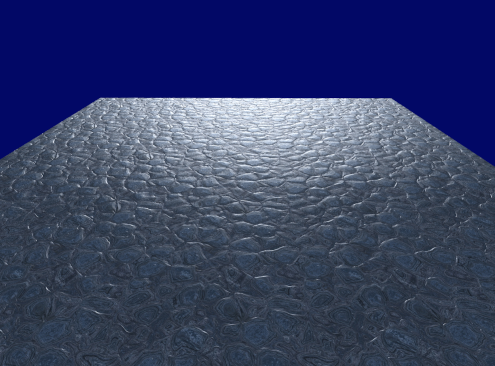
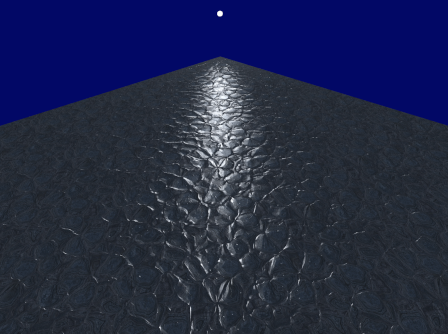
fix
Note that normal maps are defined in tangent space.
Don't forget to transform them to world space before using.

diff --git a/src/main.cpp b/src/main.cpp
@@ -4,12 +4,12 @@ GLFWwindow *window;
 
 Mesh *grid, *grid2;
 
-vec3 lightPosition = vec3(3.f, 3.f, 3.f);
+vec3 lightPosition = vec3(10.f, 3.f, 10.f);
 vec3 lightColor = vec3(1.f, 1.f, 1.f);
 
 /* for view control */
-float verticalAngle = -2.76603;
-float horizontalAngle = 1.56834;
+float verticalAngle = -1.95439;
+float horizontalAngle = 3.98102;
 float initialFoV = 45.0f;
 float speed = 5.0f;
 float mouseSpeed = 0.005f;
@@ -17,11 +17,16 @@ float nearPlane = 0.01f, farPlane = 1000.f;
 
 mat4 model, view, projection;
 mat4 model2;
-vec3 eyePoint = vec3(2.440995, 7.005076, 3.059731);
+vec3 eyePoint = vec3(-7.735105, 6.012015, -8.435227);
 vec3 eyeDirection =
     vec3(sin(verticalAngle) * cos(horizontalAngle), cos(verticalAngle),
          sin(verticalAngle) * sin(horizontalAngle));
 vec3 up = vec3(0.f, 1.f, 0.f);
+
+// test
+vector<Point> pts;
+GLuint pointShader;
+GLint uniPointM, uniPointV, uniPointP;
 
 void computeMatricesFromInputs();
 void keyCallback(GLFWwindow *, int, int, int, int);
@@ -42,6 +47,11 @@ int main(int argc, char **argv) {
 
   initTexture();
   initMatrix();
+
+  Point p;
+  p.pos = lightPosition;
+  p.color = vec3(1.f);
+  pts.push_back(p);
 
   // a rough way to solve cursor position initialization problem
   // must call glfwPollEvents once to activate glfwSetCursorPos
@@ -74,6 +84,12 @@ int main(int argc, char **argv) {
                     lightPosition, 10, 11);
       }
     }
+
+    glUseProgram(pointShader);
+    glUniformMatrix4fv(uniPointM, 1, GL_FALSE, value_ptr(model));
+    glUniformMatrix4fv(uniPointV, 1, GL_FALSE, value_ptr(view));
+    glUniformMatrix4fv(uniPointP, 1, GL_FALSE, value_ptr(projection));
+    drawPoints(pts);
 
     /* Swap front and back buffers */
     glfwSwapBuffers(window);
@@ -219,9 +235,20 @@ void initGL() { // Initialise GLFW
 
   glEnable(GL_CULL_FACE);
   glEnable(GL_DEPTH_TEST); // must enable depth test!!
+
+  glEnable(GL_PROGRAM_POINT_SIZE);
+  glPointSize(20);
 }
 
-void initOthers() { FreeImage_Initialise(true); }
+void initOthers() {
+  FreeImage_Initialise(true);
+
+  pointShader = buildShader("./shader/vsPoint.glsl", "./shader/fsPoint.glsl");
+  glUseProgram(pointShader);
+  uniPointM = myGetUniformLocation(pointShader, "M");
+  uniPointV = myGetUniformLocation(pointShader, "V");
+  uniPointP = myGetUniformLocation(pointShader, "P");
+}
 
 void initMatrix() {
   model = translate(mat4(1.f), vec3(0.f, 0.f, 0.f));

diff --git a/src/common.cpp b/src/common.cpp
@@ -595,3 +595,56 @@ void Mesh::findAABB() {
   min = min;
   max = max;
 }
+
+void drawPoints(vector<Point> &pts) { // array data
+  int nOfPs = pts.size();
+
+  GLfloat *aPos = new GLfloat[nOfPs * 3];
+  GLfloat *aColor = new GLfloat[nOfPs * 3];
+
+  // implant data
+  for (size_t i = 0; i < nOfPs; i++) {
+    // positions
+    Point &p = pts[i];
+    aPos[i * 3 + 0] = p.pos.x;
+    aPos[i * 3 + 1] = p.pos.y;
+    aPos[i * 3 + 2] = p.pos.z;
+
+    // colors
+    aColor[i * 3 + 0] = p.color.r;
+    aColor[i * 3 + 1] = p.color.g;
+    aColor[i * 3 + 2] = p.color.b;
+  }
+
+  // selete vao
+  GLuint vao;
+  glGenVertexArrays(1, &vao);
+  glBindVertexArray(vao);
+
+  // position
+  GLuint vboPos;
+  glGenBuffers(1, &vboPos);
+  glBindBuffer(GL_ARRAY_BUFFER, vboPos);
+  glBufferData(GL_ARRAY_BUFFER, nOfPs * 3 * sizeof(GLfloat), aPos,
+               GL_STATIC_DRAW);
+  glVertexAttribPointer(0, 3, GL_FLOAT, GL_FALSE, 0, 0);
+  glEnableVertexAttribArray(0);
+
+  // color
+  GLuint vboColor;
+  glGenBuffers(1, &vboColor);
+  glBindBuffer(GL_ARRAY_BUFFER, vboColor);
+  glBufferData(GL_ARRAY_BUFFER, nOfPs * 3 * sizeof(GLfloat), aColor,
+               GL_STREAM_DRAW);
+  glVertexAttribPointer(1, 3, GL_FLOAT, GL_FALSE, 0, 0);
+  glEnableVertexAttribArray(1);
+
+  glDrawArrays(GL_POINTS, 0, nOfPs);
+
+  // release
+  delete[] aPos;
+  delete[] aColor;
+  glDeleteBuffers(1, &vboPos);
+  glDeleteBuffers(1, &vboColor);
+  glDeleteVertexArrays(1, &vao);
+}

diff --git a/header/common.h b/header/common.h
@@ -19,6 +19,14 @@ using namespace glm;
 #define WINDOW_WIDTH 800
 #define WINDOW_HEIGHT 600
 
+/* Define a 3D point */
+typedef struct {
+  vec3 pos;
+  vec3 color;
+  vec3 v;
+  float m;
+} Point;
+
 typedef struct {
   // data index
   GLuint v1, v2, v3;
@@ -74,3 +82,4 @@ GLuint compileShader(string, GLenum);
 GLuint linkShader(GLuint, GLuint);
 void updateMesh(Mesh &);
 void drawBox(vec3, vec3);
+void drawPoints(vector<Point> &);

diff --git a/README.md b/README.md
@@ -9,6 +9,24 @@ As a result, we get a fake smooth surface with relatively low cost.
 
 # Note
 
+## A common mistake when computing normals
+
+I have used the following code to compute normals:
+
+```
+normal = texture(normalMap, TexCoords).rgb;
+normal = normalize(normal * 2.0 - 1.0);
+```
+
+and it produced an incorrect result.
+It ignored the fact that normal maps are defined in tangent space.
+Before using, we should transform them from tangent space to world space.
+
+Check [this article](https://learnopengl.com/Advanced-Lighting/Normal-Mapping) to find more information about normal mapping and tangent space.
+The corresponding code for computing normals can be found [here](https://github.com/JoeyDeVries/LearnOpenGL/blob/master/src/6.pbr/1.2.lighting_textured/1.2.pbr.fs).
+
+## Using halfway vector
+
 When computing specular, using `dot(H, N)` instead of `dot(R, V)` can obtain better result.
 `H` is called halfway vector and `H = normalize(L, V)`.
 Here, `N, R, V, L` denotes normal, reflect, view and light vector, respectively.
